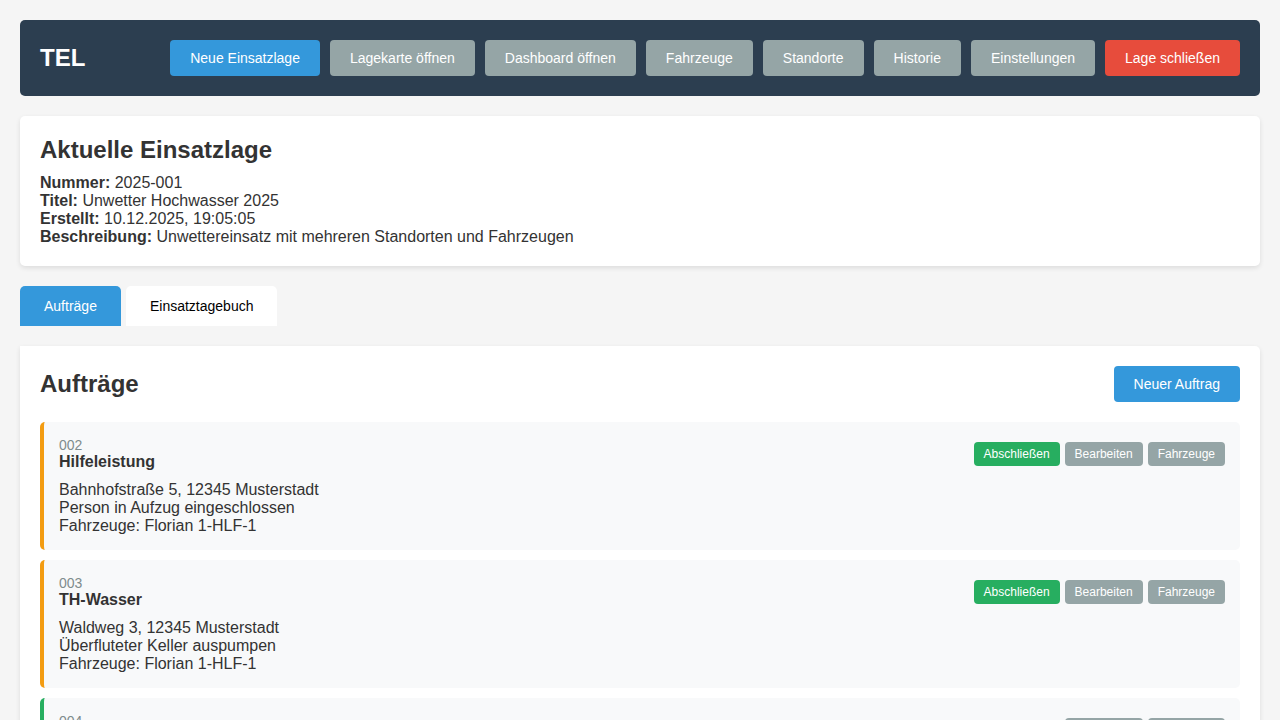
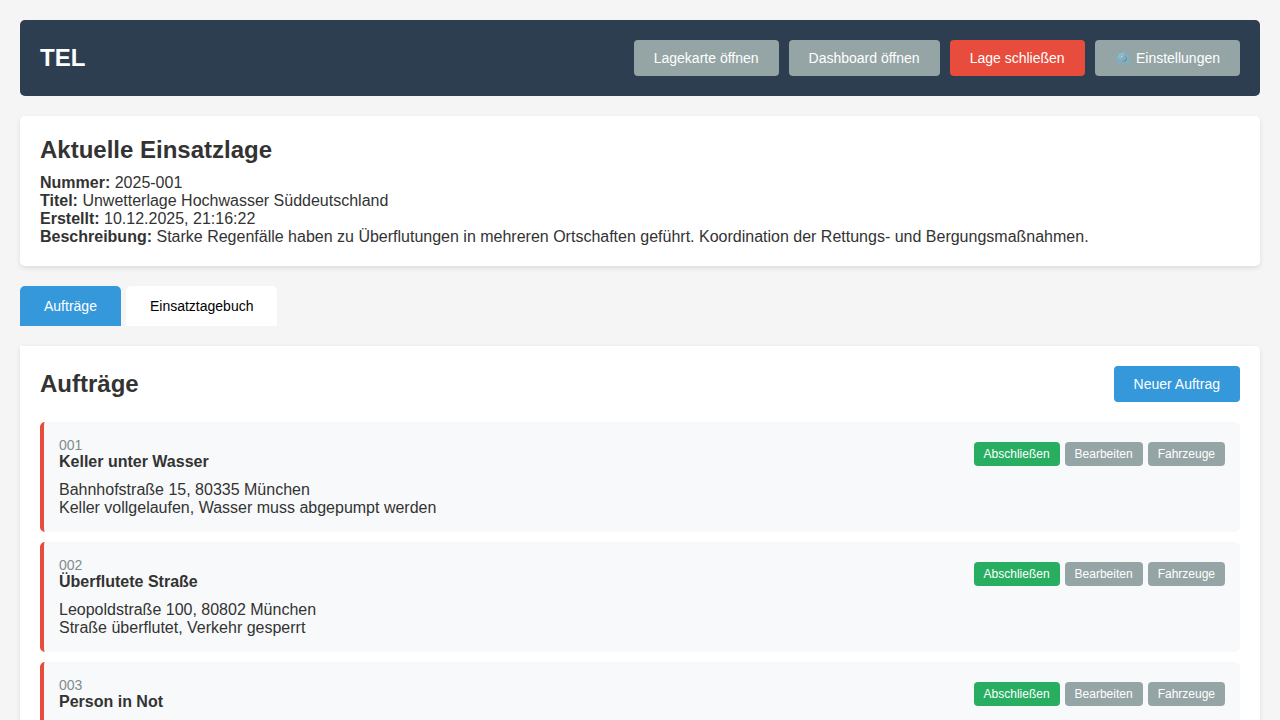
Update README and add new screenshots for UI improvements

diff --git a/README.md b/README.md
@@ -71,12 +71,15 @@ Die Anwendung wurde speziell für Feuerwehren und andere Hilfsorganisationen ent
 
 ### Hauptseite - Auftragsverwaltung
 
-Die Hauptseite bietet eine übersichtliche Darstellung der aktiven Einsatzlage mit allen offenen und zugewiesenen Aufträgen. Über die Navigation können verschiedene Funktionen wie Lagekarte, Dashboard, Fahrzeuge, Standorte und Historie aufgerufen werden.
+Die Hauptseite bietet eine übersichtliche Darstellung der aktiven Einsatzlage mit allen offenen und zugewiesenen Aufträgen. Die Navigation wurde optimiert für bessere Übersichtlichkeit.
 
 ![Hauptseite mit Auftragsverwaltung](screenshots/01-hauptseite-auftraege.png)
 
 **Funktionen:**
-- Kompakter "TEL"-Header für übersichtliche Navigation
+- Kompakter "TEL"-Header mit optimierter Navigation
+- **Neue Einsatzlage**: Button nur sichtbar wenn keine aktive Lage vorhanden ist
+- **Lagekarte & Dashboard**: Buttons nur sichtbar wenn eine aktive Einsatzlage vorhanden ist
+- **Einstellungen-Menü**: Dropdown-Menü (⚙) für Fahrzeuge, Standorte, Historie und Email-Einstellungen
 - Anzeige der aktuellen Einsatzlage mit Nummer, Titel und Beschreibung
 - Liste aller Aufträge mit fortlaufender Nummer (z.B. 001, 002, 003) für bessere Übersicht
 - Zugewiesene Fahrzeuge werden bei jedem Auftrag angezeigt
@@ -112,7 +115,7 @@ Das Dashboard ist für die Anzeige auf einem Beamer optimiert und bietet eine ü
 
 ### Lagekarte
 
-Die Lagekarte visualisiert alle Einsatzstellen und Fahrzeugstandorte auf einer interaktiven OpenStreetMap-Karte.
+Die Lagekarte visualisiert alle Einsatzstellen und Fahrzeugstandorte auf einer OpenStreetMap-Karte. Bei Firewall-Problemen wird automatisch ein Screenshot als Fallback verwendet.
 
 ![Lagekarte](screenshots/03-lagekarte.png)
 
@@ -121,6 +124,7 @@ Die Lagekarte visualisiert alle Einsatzstellen und Fahrzeugstandorte auf einer i
 - Anzeige der Fahrzeugstandorte
 - Unterschiedliche Symbole für verschiedene Fahrzeugtypen
 - Zoom und Pan-Funktionen für detaillierte Ansicht
+- Fallback auf Screenshot bei Netzwerkproblemen
 
 ### Historie
 
